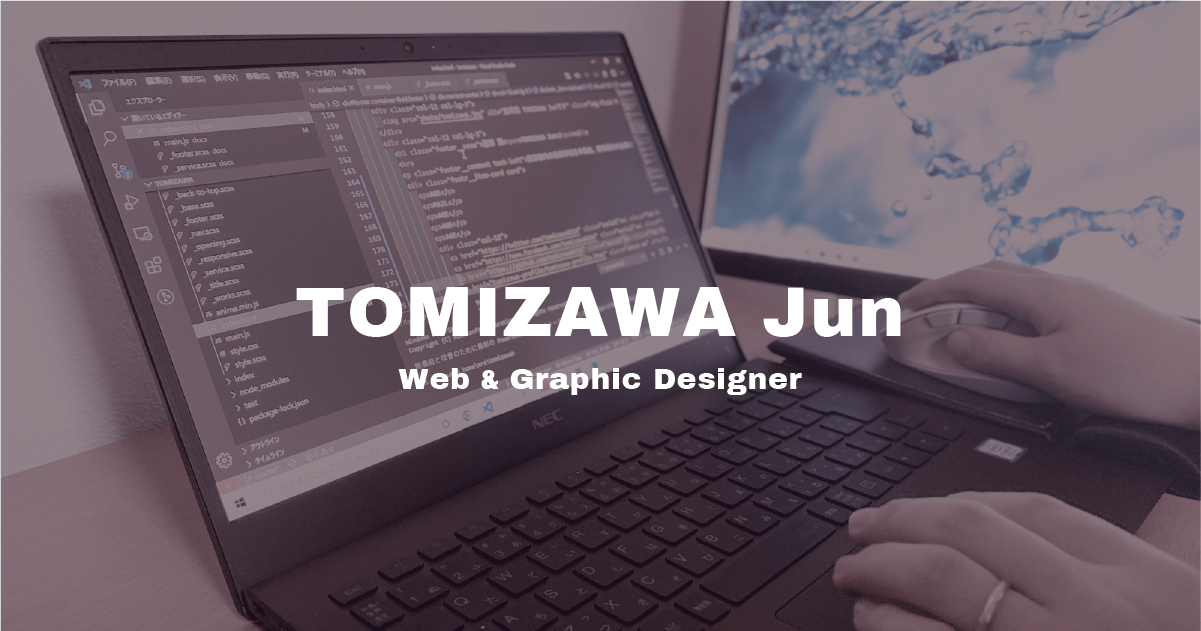
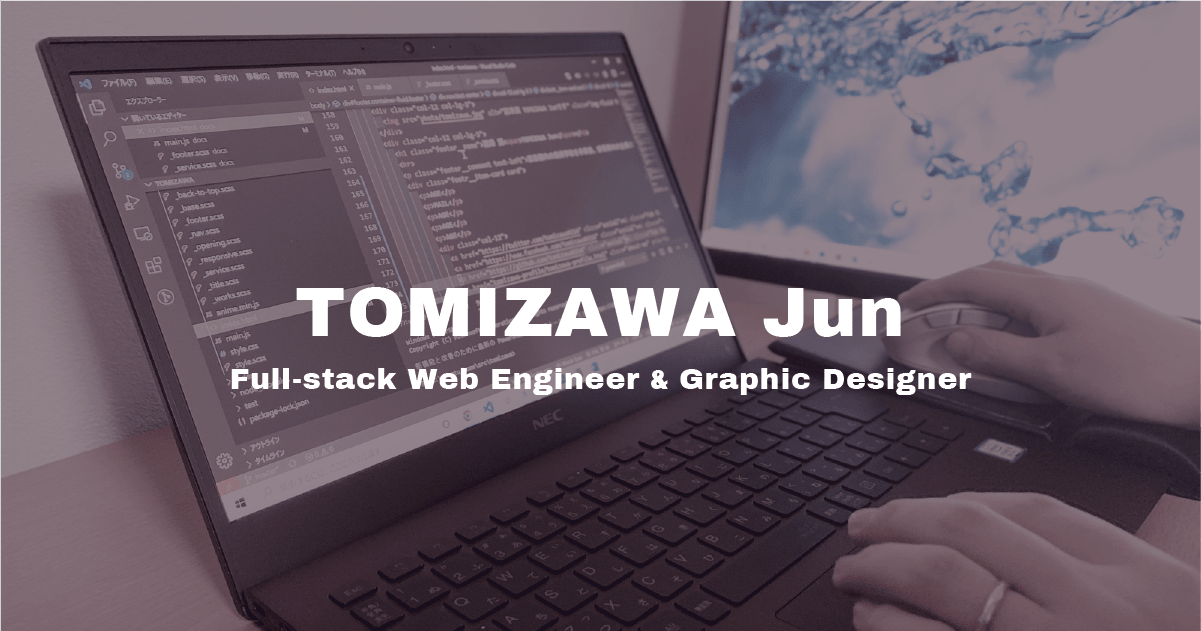
肩書き変更

Changed region(s): [[0.1848, 0.5721, 0.801, 0.6323], [0.4313, 0.4517, 0.4621, 0.4818]]

diff --git a/portfolio/templates/portfolio/base.html b/portfolio/templates/portfolio/base.html
@@ -13,15 +13,14 @@
     <meta charset="utf-8">
     <meta http-equiv="X-UA-Compatible" content="ie=edge">
     <meta name="viewport" content="width=device-width, initial-scale=1, shrink-to-fit=no">
-    <meta name="keywords" content="群馬,デザイン,web, ホームページ, 制作, サイト, ネット, グラフィック,デザイナー,フリーランス,エンジニア,HTML,CSS,JavaScript,Python">
-    <meta name="description" content="あなたのお悩み,解決に向けて尽力させてください！フリーランスで活動する群馬県在住のWeb&Graphicデザイナーです。どうぞお気軽にご連絡くださいませ。">
+    <meta name="description" content="フルスタックwebエンジニア兼グラフィックデザイナーとして活動する冨澤潤と申します。テクノロジーとクリエイティブの力を駆使した課題解決に尽力いたします。どうぞお気軽にご連絡くださいませ。">
     <head prefix="og: http://ogp.me/ns# fb: http://ogp.me/ns/fb# website: http://ogp.me/ns/website#"></head>
-    <meta property="og:title" content="TOMIZAWA Jun | Web & Graphic Designer">
+    <meta property="og:title" content="サービスに、潤いを。 | 冨澤潤 TOMIZAWA Jun">
     <meta property="og:type" content="website">
     <meta property="og:url" content="https://tomizawajun.com">
     <meta property="og:image" content="https://tomizawajun.com/static/img/sns.png">
-    <meta property="og:site_name" content="TOMIZAWA Jun | Web & Graphic Designer">
-    <meta property="og:description" content="Web&Graphicデザイナー冨澤 潤のポートフォリオサイトです。どうぞお気軽にご連絡くださいませ。">
+    <meta property="og:site_name" content="サービスに、潤いを。 | 冨澤潤 TOMIZAWA Jun">
+    <meta property="og:description" content="フルスタックwebエンジニア兼グラフィックデザイナーとして活動する冨澤潤と申します。テクノロジーとクリエイティブの力を駆使した課題解決に尽力いたします。どうぞお気軽にご連絡くださいませ。">
     <meta property="og:locale" content="ja_JP">
     <meta property="fb:app_id" content="559419788100736">
     <meta name="twitter:card" content="summary_large_image">

diff --git a/portfolio/templates/portfolio/index.html b/portfolio/templates/portfolio/index.html
@@ -2,7 +2,7 @@
 {% load static %}
 
 {% block meta %}
-<title>TOMIZAWA Jun | Web & Graphic Designer</title>
+<title>サービスに、潤いを。 | 冨澤潤 TOMIZAWA Jun</title>
 {% endblock %}
 
 {% block opening %}

diff --git a/portfolio/templates/portfolio/contact_form.html b/portfolio/templates/portfolio/contact_form.html
@@ -3,7 +3,7 @@
 {% load widget_tweaks %}
 
 {% block meta %}
-<title>TOMIZAWA Jun | CONTACT</title>
+<title>お問い合わせ | 冨澤潤 TOMIZAWA Jun</title>
 {% endblock %}
 
 {% block nav %}

diff --git a/portfolio/templates/portfolio/contact_thanks.html b/portfolio/templates/portfolio/contact_thanks.html
@@ -2,7 +2,7 @@
 {% load static %}
 
 {% block meta %}
-<title>TOMIZAWA Jun | THANKS</title>
+<title>お問い合わせ完了 | 冨澤潤 TOMIZAWA Jun</title>
 {% endblock %}
 
 {% block nav %}
